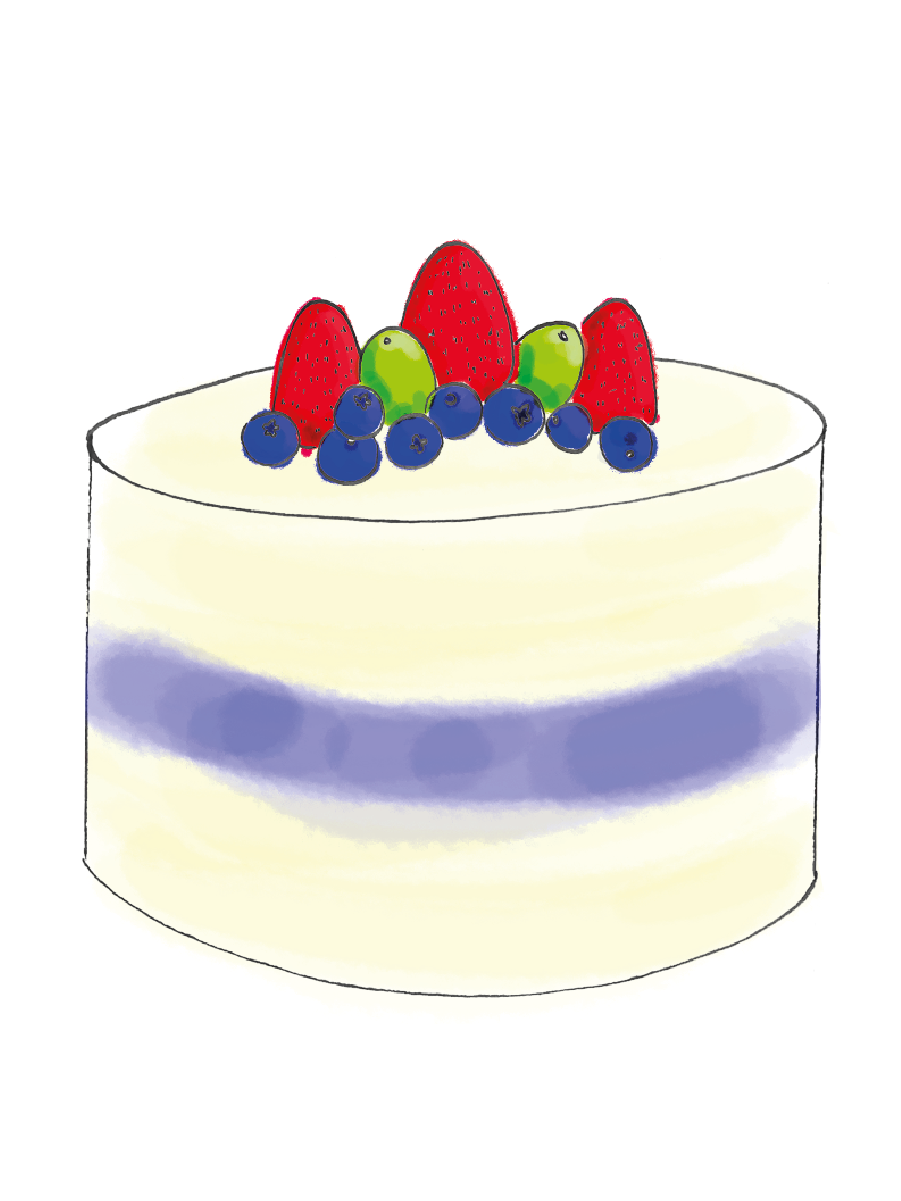
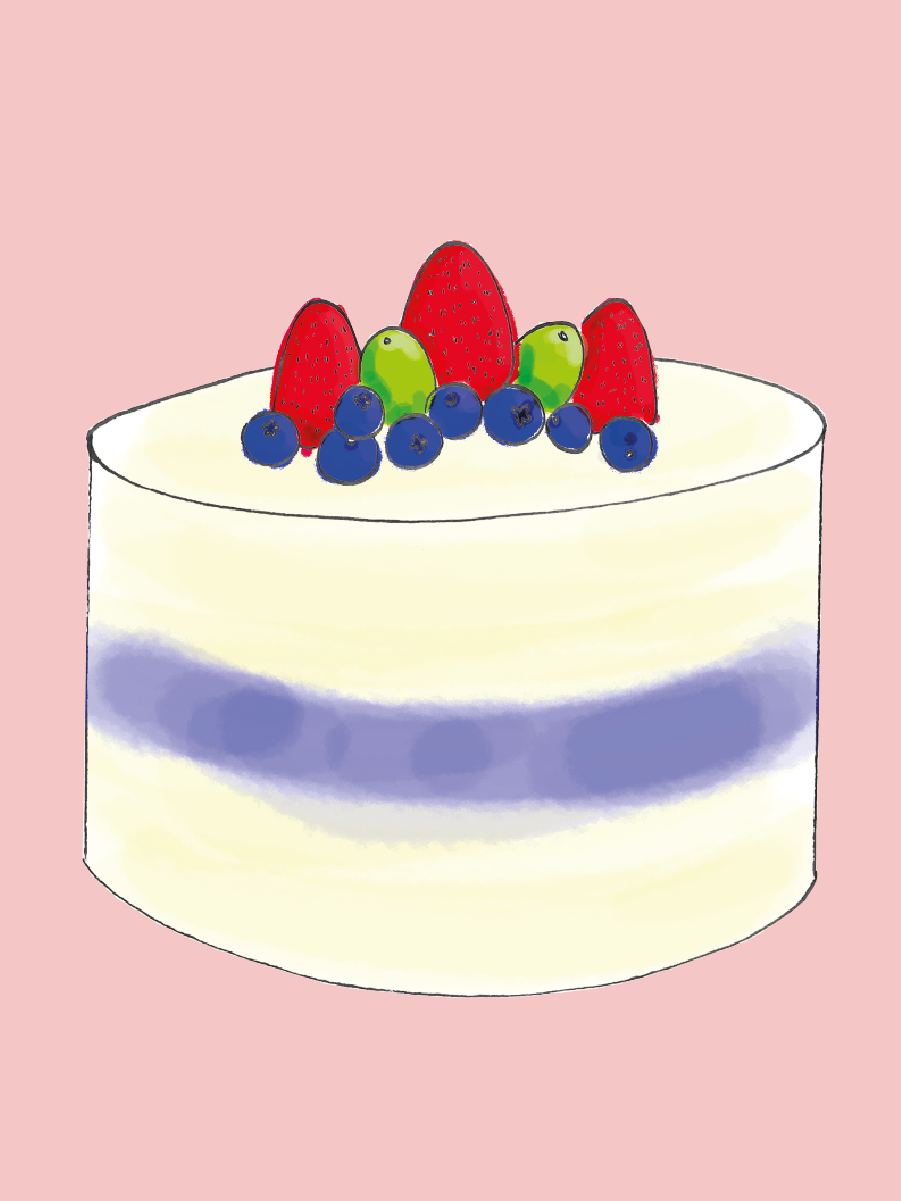
Switch images
_add bg to order images

diff --git a/assets/css/main.css b/assets/css/main.css
@@ -546,7 +546,7 @@ img.chiffonImg {
 }
 
 img.cupImg{
-	max-width: 75vw;
+	max-width: 90vw;
 }
 
 @media only screen 
